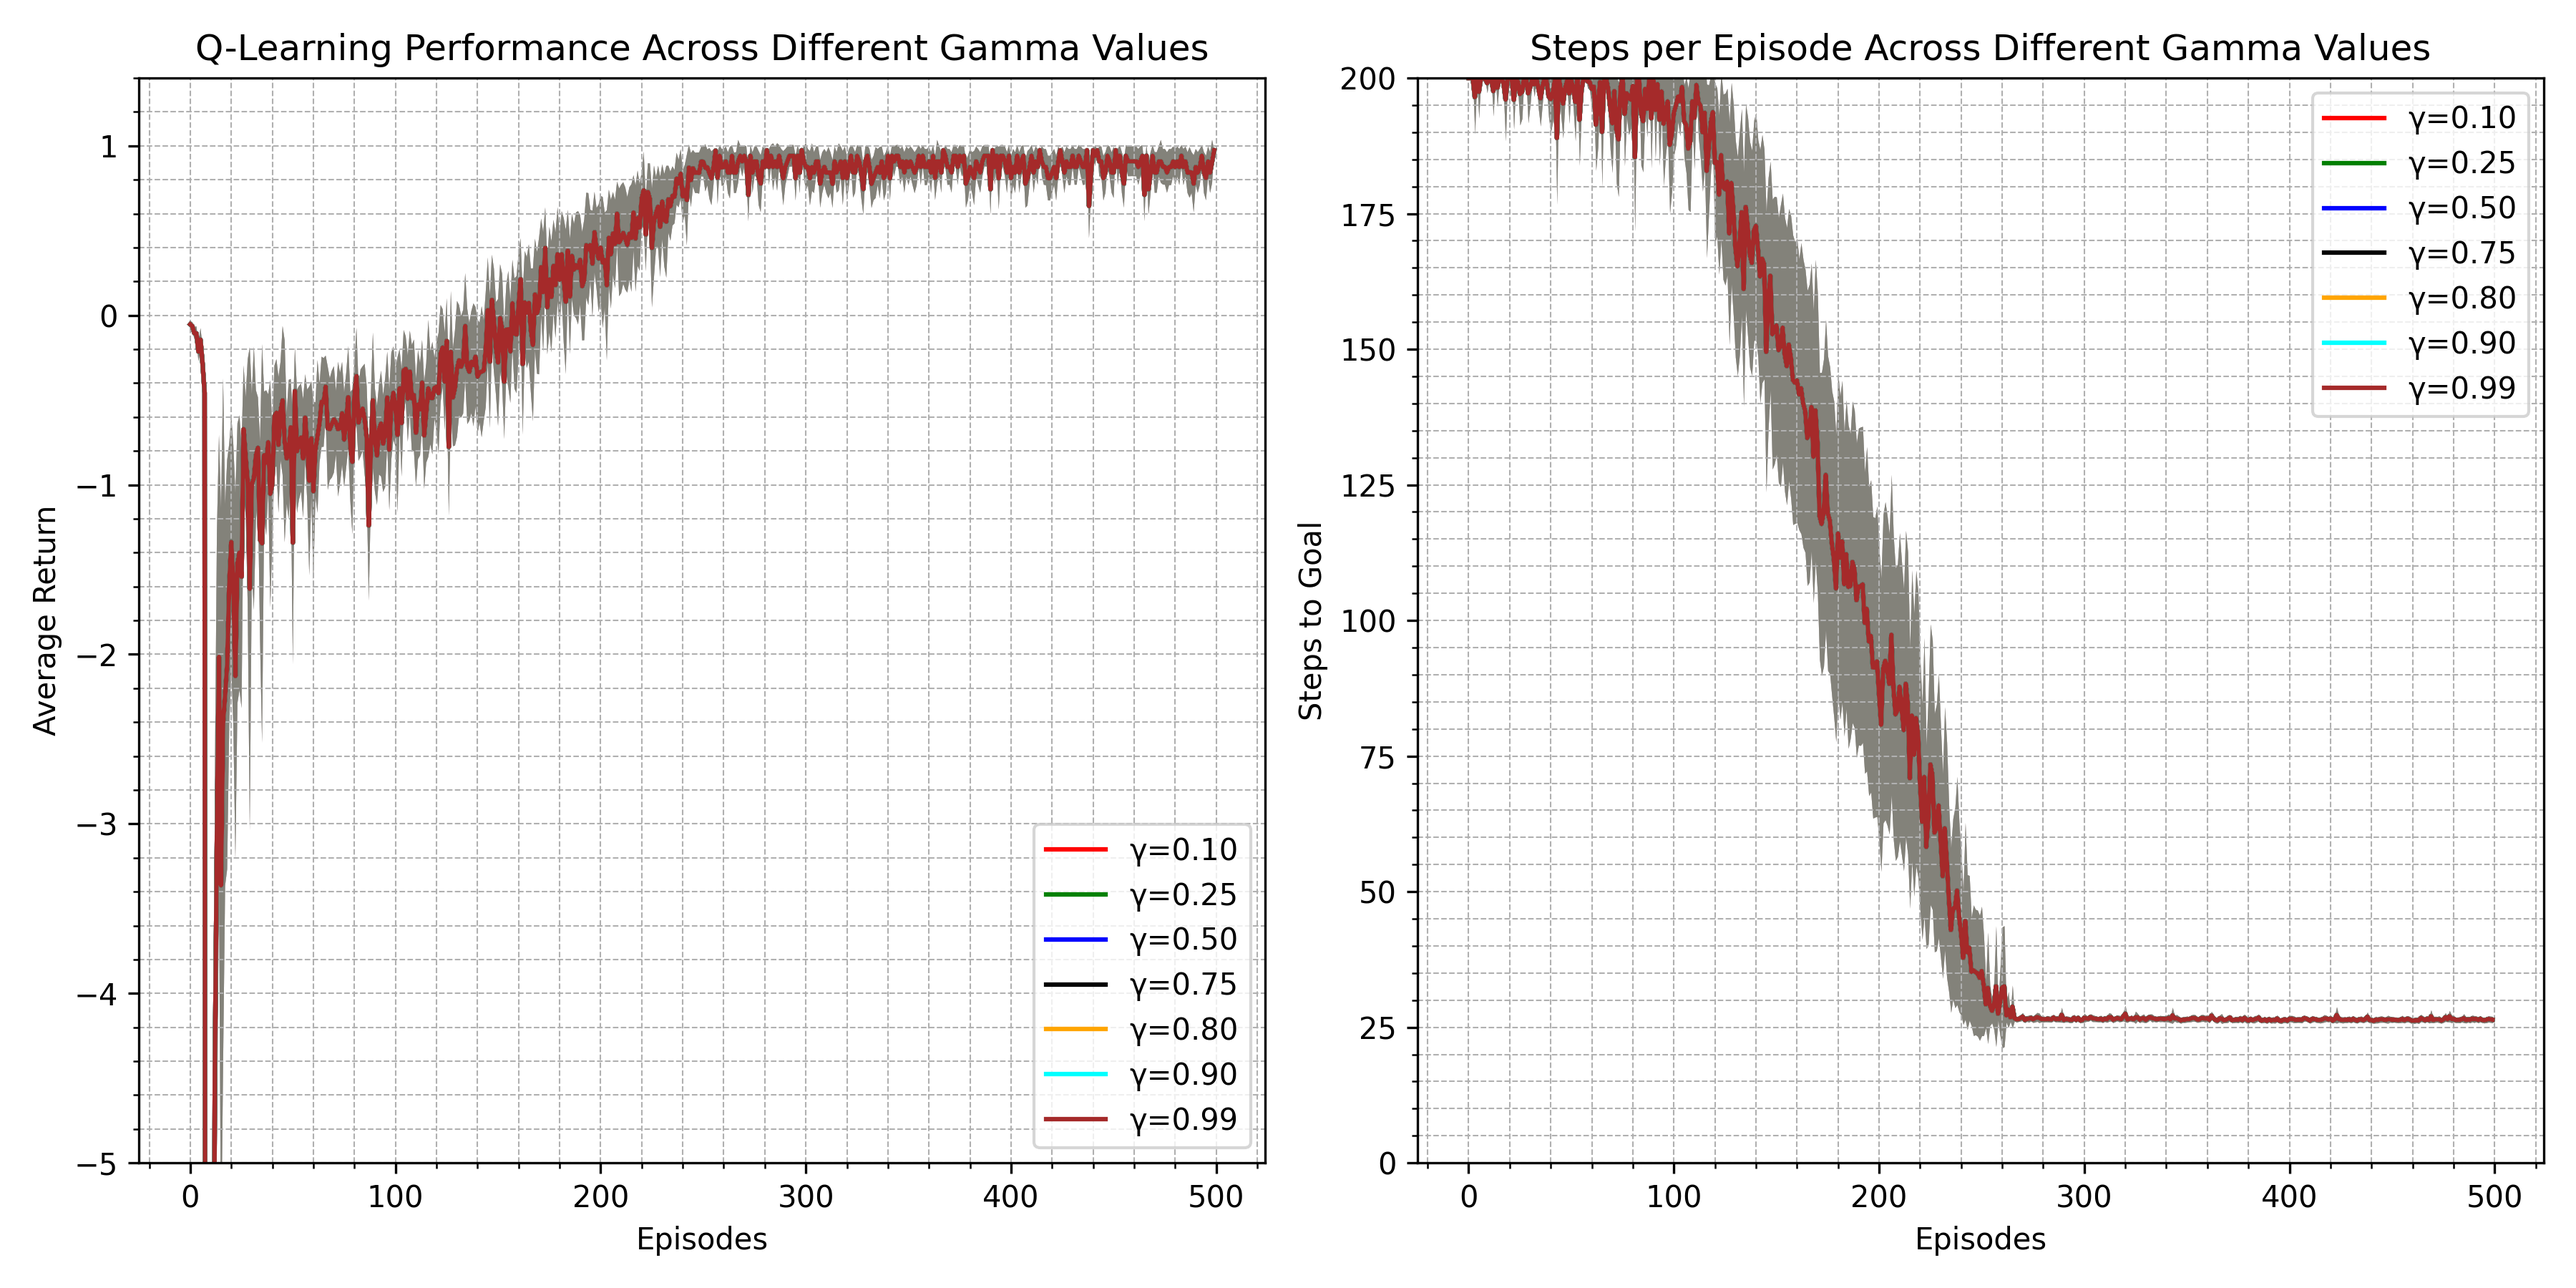
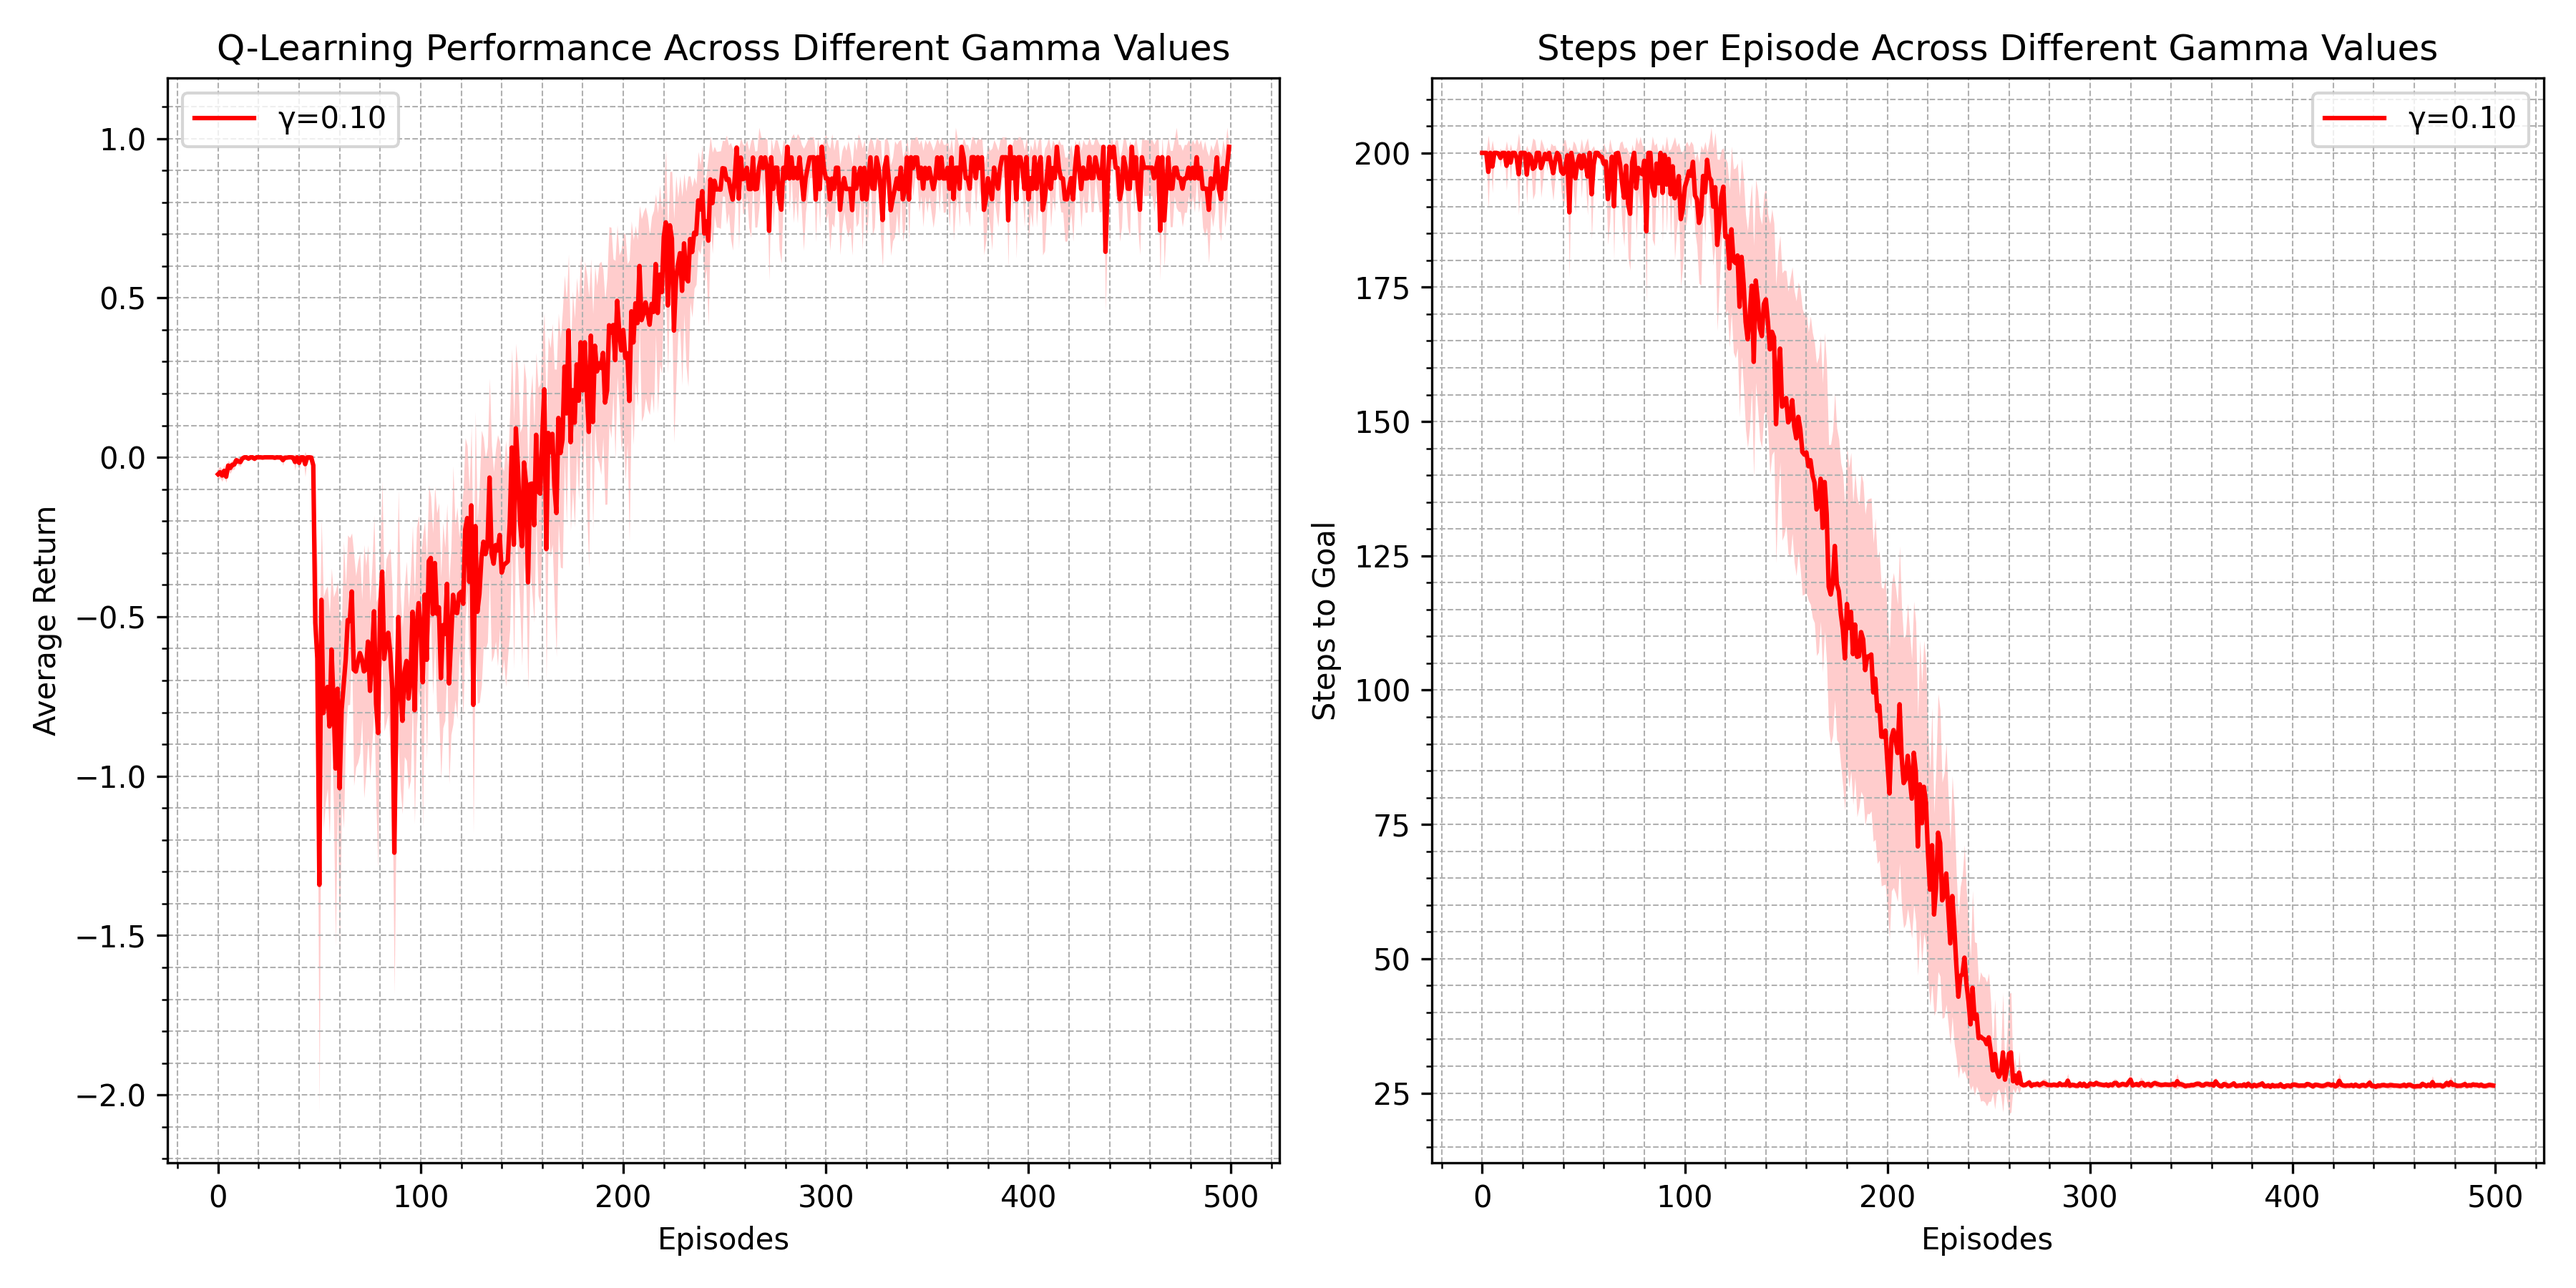
update rule changed with num episodes

diff --git a/experiments/adaptive_gamma_q_learning.py b/experiments/adaptive_gamma_q_learning.py
@@ -107,7 +107,7 @@ def Q_learning(env, Q, gamma, eps, alpha, max_steps, _seed):
             a_next = np.random.choice(best_actions)
             
             if adpative_gamma:
-                gamma = min(gamma + 14 * gamma / max_steps, 0.999)
+                gamma = min(gamma + 0.1 * episodes * gamma / max_steps, 0.999)
                 td_err = r + gamma * np.max(Q[s_next]) * (1 - terminated) - Q[s, a]
             else:
                 td_err = r + gamma * np.max(Q[s_next]) * (1 - terminated) - Q[s, a]
@@ -159,7 +159,8 @@ gamma_values = [0.1, 0.25, 0.5, 0.75, 0.8, 0.9, 0.99]
 seeds = np.arange(30)
 
 adpative_gamma = True
-gamma_init = 0.1
+if adpative_gamma:
+    gamma_values = [0.1]
 
 results_exp_ret = np.zeros((
     len(gamma_values),
@@ -195,11 +196,8 @@ for i, gamma in enumerate(gamma_values):
         for seed in seeds:
             np.random.seed(seed)
             Q = np.zeros((n_states, n_actions)) + init_value
-            if adpative_gamma:
-                Q, exp_ret, steps = Q_learning(env, Q, gamma_init, eps, alpha, max_steps, int(seed))
-            else:
-                Q, exp_ret, steps = Q_learning(env, Q, gamma, eps, alpha, max_steps, int(seed))
-
+            Q, exp_ret, steps = Q_learning(env, Q, gamma, eps, alpha, max_steps, int(seed))
+            
             results_exp_ret[i, j, seed] = exp_ret
             results_steps[i, j, seed] = steps
 
